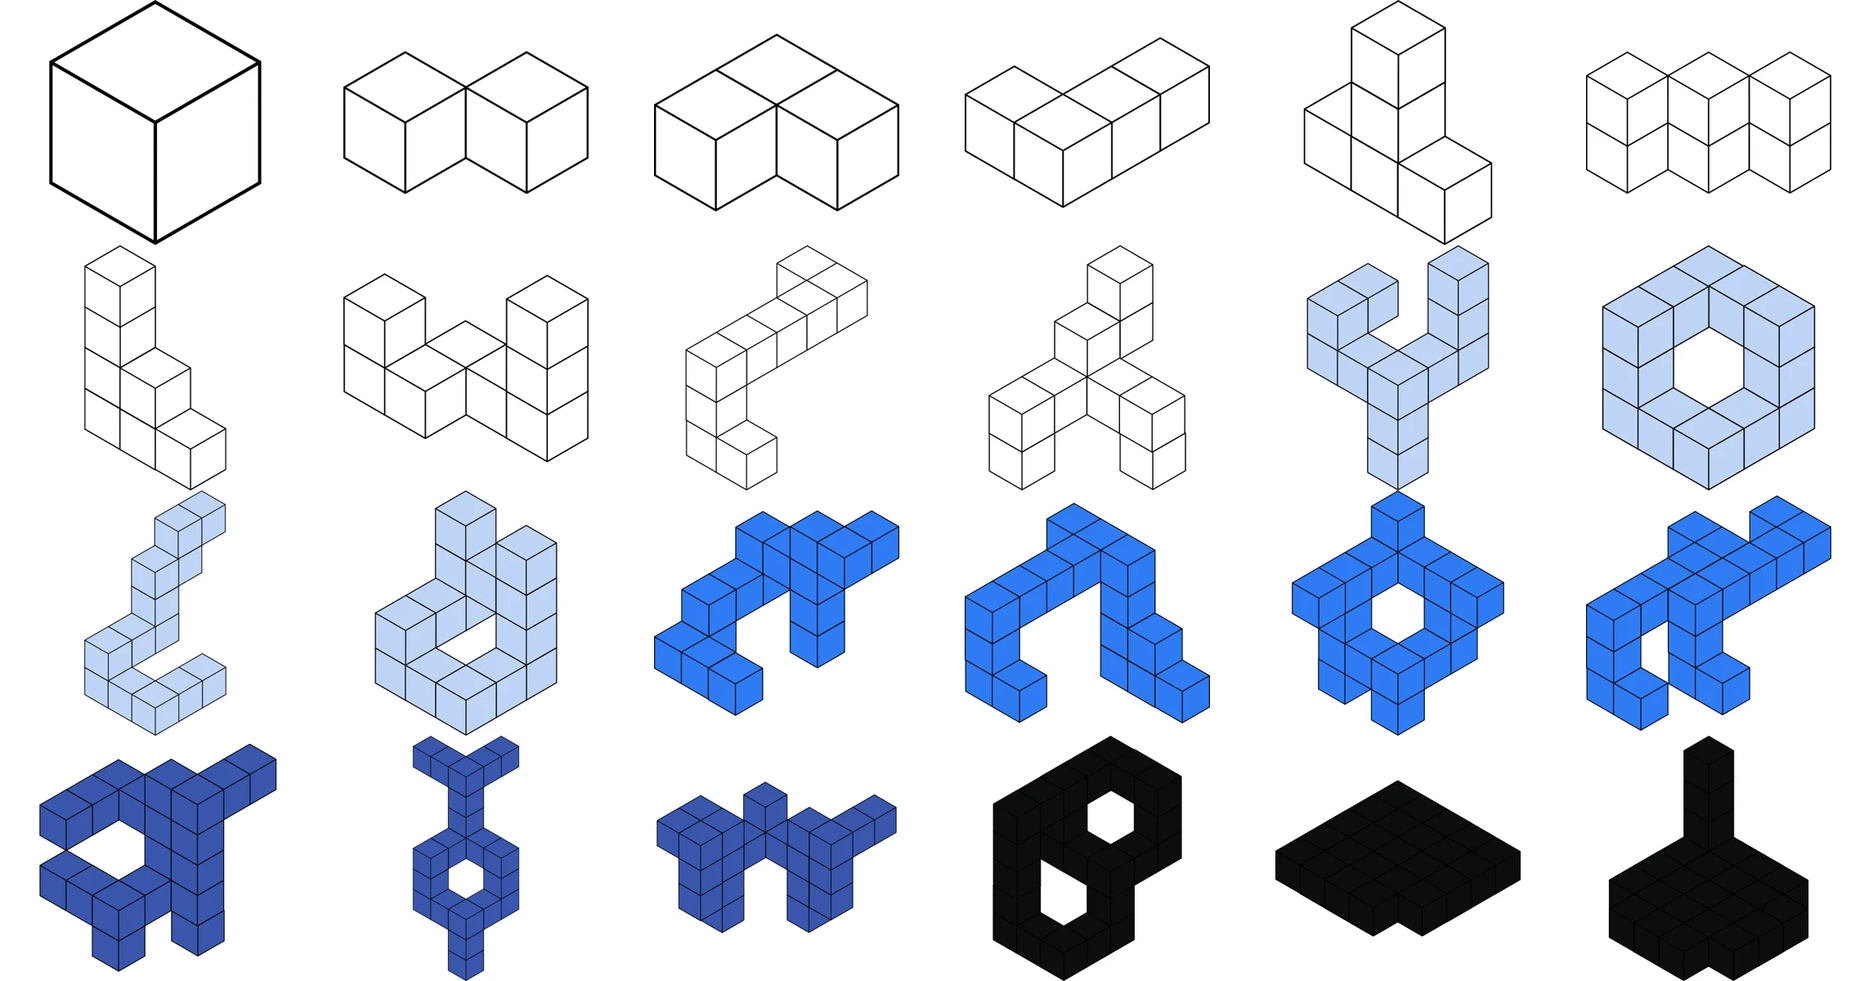
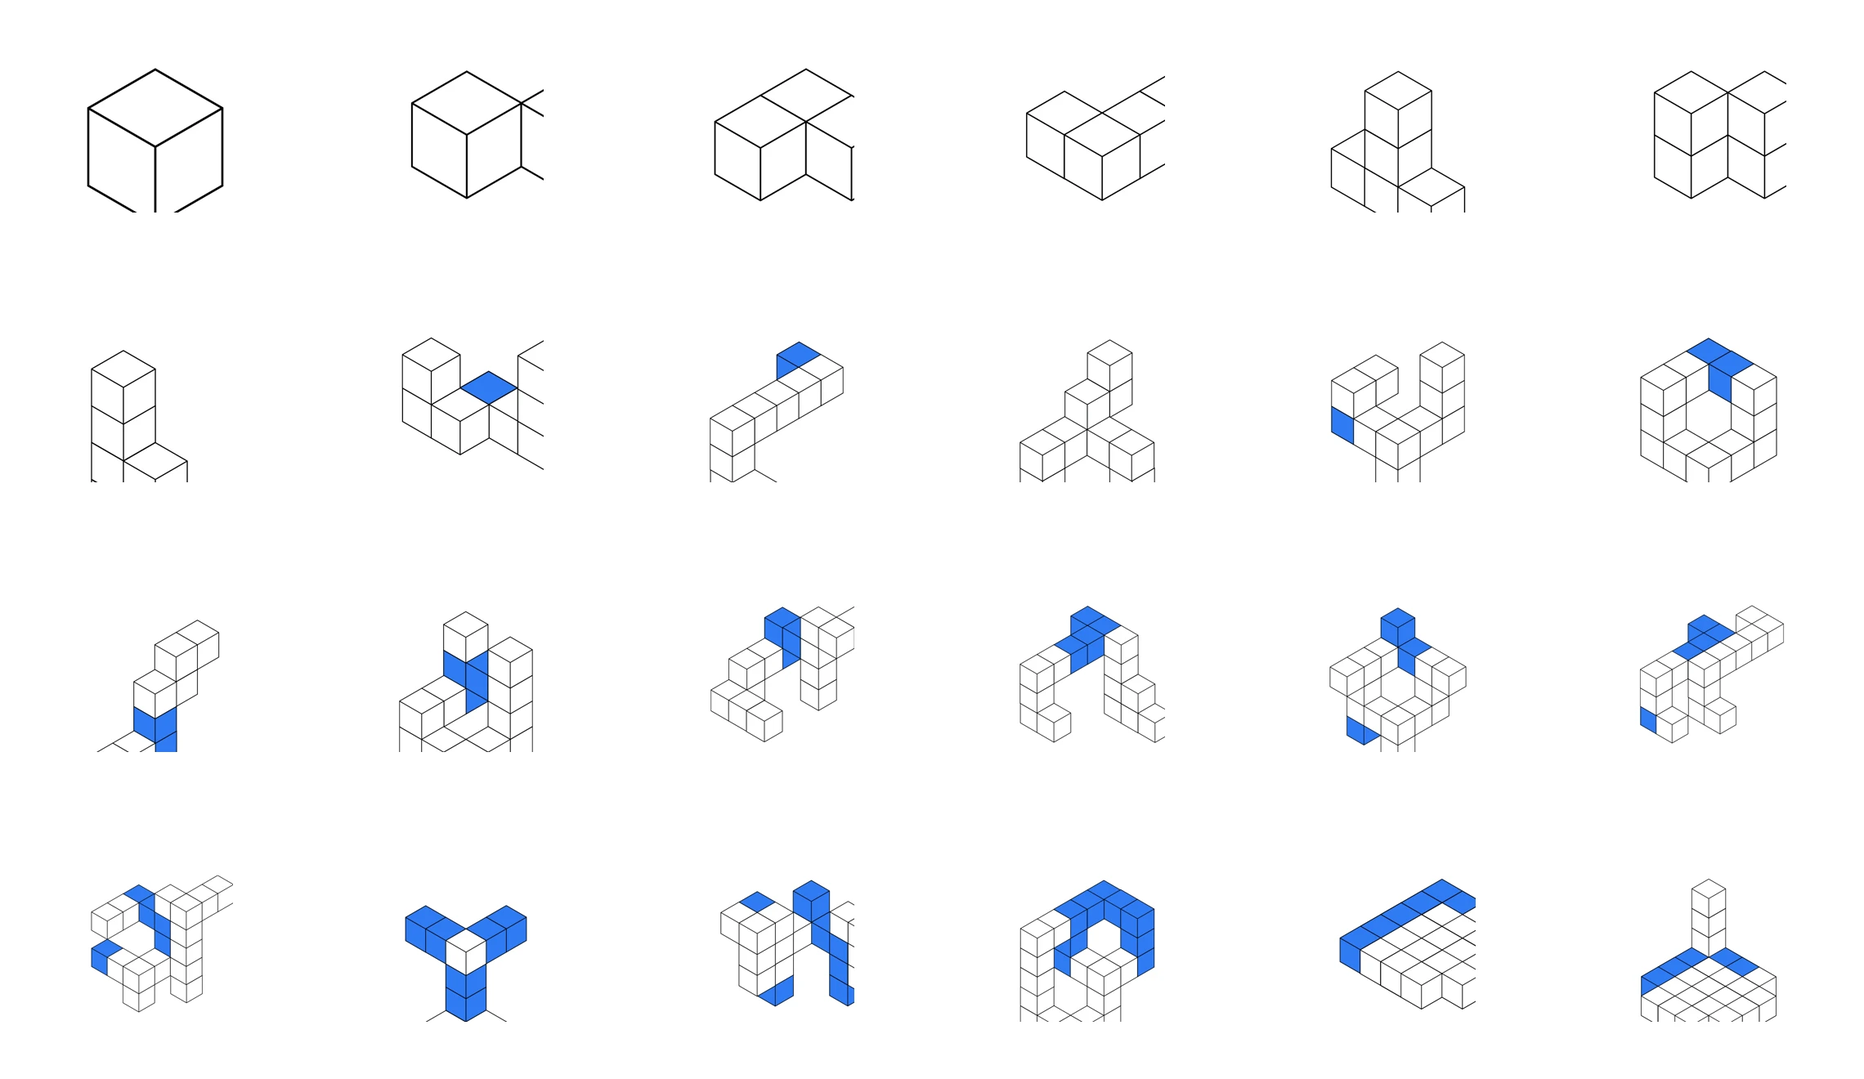
Kaizen: lighter block mosaic, longer navy-to-black fade, tighter alignment
Mosaic rebuilt with smaller blocks in larger cells, half-weight grey strokes
in place of black, and 6% padding inside the viewBox so nothing clips at the
render bounds. Individual cubes fill blue rather than whole structures.

The lockup's navy-to-black fade was being cropped mid-navy by the opaque media
below it, so the seam it was meant to dissolve came back as a hard line. The
gradient is now sized to the padding run that precedes the media, lengthened,
and walked along a smoothstep curve so it eases out of the navy and into the
black with no corner at either end.

Also: the even-spread strip moves up under the five doughnut screens and is
held in from both sides, where full-bleed had been cutting the outer two
phones off at the frame; the Quasimoda specimen moves onto the site's own left
rail so it starts under the wordmark and nav rather than 200px left of them;
Slot 05 and the design-system sheet are removed.

Claude-Session: https://claude.ai/code/session_0194FyaePx1fREVkPJYGQDdS

diff --git a/work/feed-redesign/index.html b/work/feed-redesign/index.html
@@ -797,29 +797,52 @@ html.t2-scrolled .t2-nav-links a { color: #FFFFFF; }
 .kz-lockup--dark {
   margin-top: 0;
   margin-bottom: -1px;
-  padding-top: clamp(70px, 11vh, 170px);
-  background: linear-gradient(#080F1F 0%, #0A0F18 46%, #0B0D0F 100%);
+  /* The fade has to finish exactly where the opaque media begins, or the media
+     crops it mid-navy and the seam it was meant to dissolve comes back as a
+     hard line. Sizing the gradient to the padding run ties the two together. */
+  --kz-fade: clamp(190px, 28vh, 380px);
+  padding-top: var(--kz-fade);
+  background-color: #0B0D0F;
+  /* A straight two-stop ramp still read as a line: the colour arrives at black
+     and then stops dead, and the kink at that point is what the eye picks up.
+     These stops walk a smoothstep curve instead, so the fade eases out of the
+     navy and eases into the black with no corner at either end. */
+  background-image: linear-gradient(
+    #080F1F 0%,
+    #080F1E 12.5%,
+    #090F1D 25%,
+    #090E1A 37.5%,
+    #0A0E17 50%,
+    #0A0E14 62.5%,
+    #0A0D12 75%,
+    #0B0D10 87.5%,
+    #0B0D0F 100%);
+  background-size: 100% var(--kz-fade);
+  background-repeat: no-repeat;
 }
 .kz-lockup--dark .t2-media { background: #0B0D0F; }
-.kz-lockup--light, .kz-lockup--light .t2-media { background: #FFFFFF; }
 /* The construction sits after the specimen and the light lockup, on white, at
    the width the sheets run at. */
 .kz-build, .kz-build .t2-media { background: #FFFFFF; }
 .kz-build .t2-media { width: min(86%, 1120px); margin-inline: auto; }
-.kz-build { padding-block: clamp(26px, 4vh, 60px); }
+/* Follows the specimen's black directly now that the light lockup is gone, so
+   it opens with a decent run of white before the doughnuts start. */
+.kz-build { padding-block: clamp(72px, 11vh, 168px) clamp(40px, 6vh, 96px); margin-top: 0; }
 /* Train like — the block concept. Each SVG's faces were hard-coded white, so
    they now take currentColor and the colour is set per block from Kaizen's own
    range: white, the product blue, near-black. The black edges are left alone,
    which is what keeps them reading as drawn objects rather than flat shapes. */
-.kz-train { display: flex; flex-direction: column; gap: 16px; padding-inline: clamp(16px, 6%, 96px); margin-block: clamp(32px, 5vh, 72px); }
+/* Wider than the rest of the run — the mosaic wants the room. */
+.kz-train { display: flex; flex-direction: column; gap: 16px; padding-inline: clamp(12px, 2.4%, 44px); margin-block: clamp(40px, 6vh, 92px); }
 .kz-train-note {
   max-width: 66ch; margin: 0 0 clamp(14px, 2vh, 26px);
   font-family: var(--body); font-weight: 300; font-size: 16px; line-height: 26px; color: var(--ink-700);
 }
-.kz-train-row { display: flex; gap: clamp(24px, 4vw, 72px); align-items: center; }
+/* The screen sits top left, the mosaic runs beside it. */
+.kz-train-row { display: flex; gap: clamp(20px, 3.2vw, 56px); align-items: flex-start; }
 .kz-train-blocks { flex: 1 1 auto; min-width: 0; }
 .kz-train-blocks img { width: 100%; height: auto; display: block; }
-.kz-train-screen { flex: 0 0 auto; width: clamp(150px, 20vw, 260px); }
+.kz-train-screen { flex: 0 0 auto; width: clamp(132px, 15vw, 218px); }
 .kz-train-screen img { width: 100%; height: auto; display: block; }
 @media (max-width: 719px) {
   .kz-train-row { flex-direction: column; align-items: flex-start; }
@@ -827,7 +850,13 @@ html.t2-scrolled .t2-nav-links a { color: #FFFFFF; }
 }
 .kz-spec { background: #0B0D0F; margin-top: 0; margin-bottom: -1px; }
 .kz-spec-inner {
-  padding: clamp(48px, 8vh, 128px) clamp(24px, 7%, 116px);
+  /* The specimen is live type, not a full-bleed image, so it reads as page
+     copy and has to sit on the page's own left rail. That rail is the nav's:
+     a 1136px centred box with 96px of padding inside it. Same box here, so
+     Quasimoda starts exactly under Studio Vincent and the nav above it. */
+  max-width: 1136px;
+  margin-inline: auto;
+  padding: clamp(48px, 8vh, 128px) clamp(24px, 8.5%, 96px);
   color: #F4F3EF;
   font-family: "Quasimoda", "Test Söhne", "Inter", system-ui, sans-serif;
 }
@@ -878,7 +907,11 @@ html.t2-scrolled .t2-nav-links a { color: #FFFFFF; }
    directly above the black outro. Its background is keyed out, and the figure
    takes the outro's colour so the two read as one dark close to the page. */
 .kz-onblack, .kz-onblack .t2-media { background: #1a1a1a; }
+/* Run full-bleed, the outer two phones sat hard against the frame and read as
+   cut off. The strip is held in from both sides so the row is complete, with
+   the black carrying on past it to the edges. */
 .kz-onblack { padding: clamp(28px, 4vh, 64px) 0 clamp(36px, 5vh, 80px); margin-bottom: -1px; }
+.kz-onblack .t2-media { width: min(92%, 1560px); margin-inline: auto; }
 .kz-pair { display: flex; flex-direction: column; gap: 20px; padding-inline: clamp(16px, 6%, 96px);
   margin-block: clamp(28px, 4vh, 60px); }
 .kz-pair-title {
@@ -940,6 +973,21 @@ html.t2-scrolled .t2-nav-links a { color: #FFFFFF; }
    through as a hairline. Overlapping by a pixel removes the possibility
    rather than relying on the rounding to agree. */
 .t2-item--pano, .t2-item--film { margin-bottom: -1px; }
+/* The landscape ended on its own navy and the panel below started on the same
+   colour, but the join was still a straight horizontal edge across the frame.
+   A gradient over the foot of the scene sinks it into what follows instead of
+   stopping at it. It sits above the layers, so it holds still while they move
+   underneath — which is what makes the bottom read as depth rather than as a
+   cut. */
+.t2-item--pano .t2-media { position: relative; }
+.t2-item--pano .t2-media::after {
+  content: "";
+  position: absolute;
+  inset: auto 0 0 0;
+  height: 38%;
+  background: linear-gradient(rgba(8, 15, 31, 0) 0%, rgba(8, 15, 31, 0.5) 52%, rgba(9, 13, 22, 0.88) 82%, #080F1F 100%);
+  pointer-events: none;
+}
 .t2-item--pano + .t2-item--film,
 .t2-item--film + .t2-item--film { padding-top: 1px; }
 /* The ground behind the SVG has to cover BOTH edges: sky at the top, where a
@@ -2328,9 +2376,9 @@ html.t2-scrolled .t2-nav-links a { color: #FFFFFF; }
 <path d="M245.352 302.091C421.738 328.852 518.737 301.338 737.041 296.95C955.345 292.563 995.654 295.048 1025.71 296.954C1055.78 298.861 1085.06 298.531 1102.62 303.135C1120.19 307.74 1142.06 301.689 1158.51 302.104C1174.96 302.52 1208.23 307.213 1233.88 313.428C1259.52 319.643 1288.6 310.89 1316.43 313.429C1344.26 315.968 1367.51 322.387 1400.51 324.739C1433.52 327.091 1466.35 324.74 1496.39 324.74C1526.42 324.741 1543.25 324.222 1573.29 324.741C1603.33 325.261 1698.58 332.558 1752.23 335.035C1805.88 337.512 1836.05 342.029 1889.64 340.182C1943.23 338.335 1980.7 327.329 2030.64 324.748C2080.58 322.167 2108.76 322.581 2158.81 324.75C2208.87 326.918 2237.81 333.065 2288.55 336.081C2339.29 339.096 2377.49 342.481 2432.11 340.199C2486.73 337.917 2516.51 328.038 2571.06 324.756C2625.6 321.473 2636.43 332.901 2677.7 332.487C2718.97 332.072 2742.4 322.721 2782.77 322.806C2823.13 322.89 2884.84 317.042 2912.53 320.656C2940.21 324.269 2964.07 328.976 3008.41 328.375C3052.74 327.774 3054.94 320.972 3084.29 320.658C3113.63 320.345 3137.4 324.31 3171.45 324.764C3205.5 325.219 3226.32 318.356 3261.62 315.511C3296.91 312.665 3329.85 309.624 3362.11 309.852C3394.37 310.08 3420.31 317.474 3457.55 322.815C3494.79 328.157 3540.4 339.329 3587.19 342.758C3633.99 346.187 3676.7 345.438 3707.17 342.759C3737.64 340.081 3748.91 329.323 3775.88 327.84C3802.84 326.356 3835.86 320.669 3867.14 327.841C3898.42 335.013 3902.22 322.973 3927.13 324.24C3952.04 325.507 3959.94 311.892 4010.7 327.843C4061.46 343.794 4057.02 344.604 4109.66 344.824C4162.29 345.044 4183.49 324.244 4219.38 327.846C4255.27 331.448 4255.27 329.905 4311.16 337.109C4367.04 344.313 4383.61 370.479 4413.7 367.981C4443.79 365.484 4465.81 366.132 4495.74 362.323C4525.66 358.514 4565.98 393.71 4610.07 388.565C4654.17 383.421 4673.88 360.608 4697.75 362.326C4721.62 364.044 4762.99 355.289 4789.01 356.667C4815.03 358.045 4855.67 356.668 4855.67 356.668L4961.29 344.836L5075.62 344.838L5262.84 334.078C5262.84 334.078 5338.26 325.159 5386.92 324.057C5435.57 322.955 5519.71 324.059 5519.71 324.059L5734.03 334.085L6214.12 326.165C6278.82 325.098 6328.67 384.847 6315.76 447.992L6292.78 560.379C6291.06 568.828 6290.44 577.488 6290.95 586.14L6305.51 833.838C6308.85 890.731 6264.59 937.996 6207.64 937.751C5950.45 936.644 5271.52 934.091 4802.2 935.683C4212.78 937.682 3666.44 948.575 3186.02 949.949C2705.6 951.322 2392.04 948.613 1955.71 947.879C1519.38 947.145 1144.7 946.214 838.413 945.999C532.125 945.784 211.878 1136.71 54.1246 945.988C-103.629 755.266 -41.1217 349.18 34.624 317.524C110.37 285.869 68.9651 275.331 245.352 302.091Z" fill="url(#paint4_linear_111_62430)" fill-opacity="0.56"/>
 </g></g><g class="lz-l" style="--d:0.56"><g filter="url(#filter6_n_111_62430)">
 <path d="M471.457 338.109C562.208 318.559 618.438 319.465 669.88 318.561C721.322 317.657 762.197 322.452 813.442 318.563C864.686 314.674 906.758 318.564 906.758 318.564L985.204 315.994L1055.45 305.705L1123.64 300.046C1123.64 300.046 1221.78 296.544 1280.02 300.049C1338.26 303.553 1442.55 316.001 1442.55 316.001L1546.63 316.002L1638.92 324.75C1638.92 324.75 1876.31 363.888 1967.06 344.299C2057.81 324.71 2234.19 352.027 2234.19 352.027C2234.19 352.027 2269.57 360.26 2304.95 360.261C2340.33 360.261 2505.13 344.55 2522.34 344.307C2532.34 344.166 2550.45 341.934 2563.87 340.088C2575.09 338.545 2586.52 338.695 2597.72 340.788L2663.27 353.032C2663.27 353.032 2694.06 360.166 2714.03 360.236C2733.99 360.307 2765.81 353.034 2765.81 353.034L2831.39 336.918C2837.9 335.318 2844.55 334.38 2851.28 334.175C2870.43 333.59 2911.4 332.623 2925.78 334.514C2944.8 337.015 2971.93 337.601 2971.93 337.601L3032.94 344.314C3032.94 344.314 3073.96 353.038 3115.49 353.039C3157.02 353.04 3223.67 337.605 3223.67 337.605C3223.67 337.605 3298.53 329.888 3341.6 329.889C3384.67 329.889 3400.67 333.781 3425.68 338.123C3450.69 342.464 3470.8 352.561 3470.8 352.561C3470.8 352.561 3502.64 368.234 3529.77 369.509C3556.9 370.785 3567.59 363.565 3601.03 364.392C3634.48 365.218 3677.43 377.229 3718.96 369.512C3760.49 361.795 3779.97 338.382 3828.17 338.128C3876.37 337.874 3898.82 361.024 3923.54 361.283C3948.25 361.541 3972.69 356.042 3993.27 354.593C4013.84 353.144 4052.74 358.197 4052.74 358.197C4052.74 358.197 4090.04 371.176 4114.78 375.177C4139.53 379.178 4240.42 354.955 4270.65 354.597C4300.88 354.239 4321.9 351.774 4340.89 358.201C4359.88 364.628 4364.63 369.939 4383.96 375.181C4403.29 380.423 4410.34 379.004 4437.28 383.928C4464.23 388.852 4488.23 400.508 4511.12 402.966C4534.01 405.425 4572.39 404.326 4595.2 407.084C4618.02 409.842 4657.24 382.885 4704.41 383.932C4751.58 384.979 4824.9 375.187 4824.9 375.187L5015.12 354.608L5223.36 335.621L5388.46 327.392L5639.18 340.772C5639.18 340.772 5712.38 335.608 5758.64 335.629C5804.9 335.65 5877.08 340.776 5877.08 340.776L6029.36 335.633C6029.36 335.633 6119.37 319.759 6169.84 318.658C6220.31 317.557 6303.15 318.66 6303.15 318.66L6439.02 327.407C6439.02 327.407 6499.39 328.828 6537.98 327.408C6576.57 325.988 6649.24 318.665 6649.24 318.665L6649.24 340.787L6659 958.719L3227.13 895.884L-19.7144 929.275L-25.8836 331.412C-25.8836 331.412 84.3985 323.442 236.628 331.415C388.856 339.389 380.706 357.66 471.457 338.109Z" fill="url(#paint5_linear_111_62430)"/>
-</g></g><g class="lz-l" style="--d:0.63"><g filter="url(#filter7_n_111_62430)">
+</g></g><g class="lz-l" style="--d:0.54"><g filter="url(#filter7_n_111_62430)">
 <path d="M836.628 338.528C759.73 352.912 694.1 330.448 644.879 331.32C595.658 332.192 582.573 338.921 563.869 342.126C545.165 345.332 544.898 347.097 516.186 351.387C487.474 355.677 448.507 351.386 359.294 359.103C270.081 366.819 229.577 348.8 196.761 339.546C163.945 330.291 107.002 330.584 53.2013 345.715C-0.599828 360.845 -29.7529 723.048 40.398 949.763C110.549 1176.48 1314.61 949.105 1858.43 949.789C2402.24 950.473 2707.16 952.242 3250.97 952.868C3794.79 953.493 4160.32 952.881 4742.99 952.889C5325.66 952.897 6505.04 952.914 6505.04 952.914L6655.89 963.878L6655.87 483.318L6655.87 334.101L6549.74 341.561L6443.61 349.02L6340.55 334.098L6229.28 334.097L6098.02 349.015L5966.25 344.382C5966.25 344.382 5833.51 339.488 5791.41 339.235C5749.31 338.981 5684.25 349.009 5684.25 349.009L5392 339.229L5310.48 339.228L5229.47 353.633L5142.31 359.806L5067.07 384.411L4867.55 408.601C4867.55 408.601 4793.21 405.711 4765.52 408.599C4737.83 411.488 4722.15 440.325 4700.4 436.898C4678.66 433.472 4649.13 417.346 4613.75 417.345C4578.38 417.345 4556.84 443.685 4539.41 441.012C4521.98 438.34 4502.55 419.403 4482.5 411.168C4462.44 402.934 4407.13 397.276 4407.13 397.276C4407.13 397.276 4340.83 375.16 4295.87 384.4C4250.91 393.639 4230.93 370.447 4185.12 374.621C4139.32 378.796 4102.41 396.448 4053.35 393.143C4004.29 389.839 3950.74 382.969 3922.1 384.395C3893.47 385.82 3877.95 391.8 3849.3 393.14C3820.66 394.481 3768.9 382.085 3728.8 384.392C3688.71 386.698 3657.71 401.369 3627.64 401.63C3597.56 401.891 3578.75 396.393 3550.9 393.136C3523.05 389.88 3496.57 387.556 3479.63 384.388C3462.69 381.221 3461.17 375.458 3436.56 374.611C3411.95 373.763 3405.28 367.917 3381.18 364.832C3357.08 361.746 3353.9 361.454 3326.83 360.203C3299.76 358.951 3269.87 358.312 3233.52 360.201C3197.16 362.09 3140.88 376.61 3113.54 374.606C3086.2 372.602 3053.6 365.332 3015.1 360.198C2976.6 355.065 2903.82 345.611 2854.62 342.186C2805.42 338.761 2743.35 360.101 2670.55 365.851C2597.76 371.602 2336.34 361.645 2268.66 370.461C2200.99 379.278 2139.88 390.547 2046.56 390.545C1953.25 390.544 1854.38 350.392 1652.88 350.389C1451.39 350.386 1408.62 341.02 1373.96 338.535C1339.31 336.051 1301.88 332.873 1285.26 331.35C1268.63 329.827 1258.07 326.203 1242.7 327.235C1227.34 328.267 1212.68 331.174 1194 331.349C1175.31 331.524 1151.32 324.079 1123.75 322.087C1096.19 320.096 1057.06 319.794 1037.62 322.086C1018.17 324.379 999.964 330.548 988.394 331.346C976.824 332.145 970.266 331.213 958.656 331.346C947.046 331.479 913.527 324.144 836.628 338.528Z" fill="#03201B"/>
-</g></g><g class="lz-l" style="--d:0.72"><g filter="url(#filter8_n_111_62430)">
+</g></g><g class="lz-l" style="--d:0.58"><g filter="url(#filter8_n_111_62430)">
 <path d="M529.728 678.116C523.455 678.116 517.286 677.537 511.063 676.618C474.595 671.23 334.272 655.356 164.501 698.604C105.862 713.541 59.0137 722.66 22.1169 728.096C-39.4372 737.164 -99.6529 790.453 -102.521 852.699L-106.692 943.208L-99.4995 1133.54L1891.91 1133.57L3278.82 1147.49L4782.63 1147.51L6274.94 980.347L6660.51 980.355L6660.49 414.379L6482.58 432.796L6286.76 432.793L5997.55 442.667L5489.55 469.845L5199.87 432.778C5199.87 432.778 5087.42 396.524 5011.18 401.398C4934.95 406.272 4860.73 419.019 4817.38 426.094C4774.02 433.168 4772.6 419.444 4733.8 429.745C4695 440.045 4674.6 464.384 4634.34 469.833C4594.07 475.283 4515.31 469.831 4515.31 469.831C4515.31 469.831 4458.93 437.274 4419.43 426.088C4379.94 414.902 4339.52 427.114 4294.4 414.251C4249.28 401.387 4213.39 389.088 4150.33 397.319C4087.26 405.551 4046.76 414.861 4006.76 408.122C3966.77 401.383 3921.07 401.382 3921.07 401.382L3853.97 408.12L3735.98 401.38C3735.98 401.38 3690.36 398.855 3657.6 396.233C3624.84 393.612 3609.92 387.021 3564.8 387.02C3519.68 387.02 3443.21 396.23 3443.21 396.23C3443.21 396.23 3316.57 377.451 3255.05 379.763C3193.52 382.074 3159.17 389.537 3159.17 389.537L3100.72 389.537C3100.72 389.537 3037.66 384.386 2993.57 384.385C2949.47 384.385 2903.32 362.921 2846.93 360.715C2790.54 358.509 2733.62 374.091 2694.65 380.264C2655.69 386.438 2609.03 389.013 2609.03 389.013C2609.03 389.013 2497.24 389.009 2438.28 380.261C2379.33 371.513 2318.57 370.721 2266.01 383.345C2213.45 395.968 2136.04 493.438 2052.78 496.086C1969.52 498.735 1820.01 575.828 1719.01 575.826C1618 575.825 1536.52 555.549 1478.03 557.3C1426.96 558.829 1211.79 626.662 1158.03 643.845C1149.89 646.445 1141.48 648.004 1132.91 648.47L981.249 656.725L845.363 667.83L640.274 678.117L529.728 678.116Z" fill="#011511"/>
 </g></g><g class="lz-l" style="--d:1.0"><g filter="url(#filter9_n_111_62430)">
 <path d="M749.835 723.572C678.915 732.789 526.455 718.633 454.752 718.337C432.211 718.244 406.181 718.668 376.125 719.765C225.976 725.245 146.793 758.114 109.559 780.684C89.8138 792.654 81.3656 815.051 81.3663 838.335L81.3672 868.021L81.372 1018.25L2006.14 1062.63L3393.05 1076.54L4896.86 1076.57L6664.22 1121.35L6664.2 643.886L6546.16 643.885L6427.21 673.722L6310.31 653.73L6177 663.576L5949.33 647.991L5715.01 663.57L5384.31 700.462L5165.89 653.713L4927.99 643.861C4927.99 643.861 4691.71 663.263 4622.08 655.69C4552.46 648.117 4443.14 647.97 4443.14 647.97L3980.6 632.993C3980.6 632.993 3903.11 630.33 3761.67 611.378C3620.22 592.426 3524.8 641.219 3364.32 632.984C3203.83 624.75 3072.58 621.147 2926.45 632.978C2780.33 644.81 2701.37 660.243 2701.37 660.243L2511.51 674.134C2501.76 674.848 2491.95 674.11 2482.3 672.205C2460.18 667.834 2417.39 660.239 2387.08 660.238C2344.52 660.238 2286.59 660.237 2286.59 660.237L2132.69 629.029C2132.69 629.029 2038.99 620.129 1996.31 620.795C1953.63 621.461 1865.57 645.489 1865.57 645.489L1663.36 710.26C1651.97 713.911 1640.15 715.469 1628.11 714.882C1557.38 711.431 1299.04 699.587 1228.26 707.029C1145.99 715.679 1024.2 729.663 1024.2 729.663L819.589 716.399C813.13 715.98 806.658 716.187 800.264 717.018L749.835 723.572Z" fill="#0A0E22" fill-opacity="0.8"/>
@@ -2421,13 +2469,6 @@ html.t2-scrolled .t2-nav-links a { color: #FFFFFF; }
         </div>
       </figure>
 
-      <figure class="t2-item t2-reveal kz-lockup kz-lockup--light">
-        <div class="t2-media" style="aspect-ratio: 2181 / 1010;">
-          <img src="kaizen-lockup-light.webp" alt="The Kaizen lockup: mark and wordmark in black on white."
-               width="2181" height="1010" loading="lazy" decoding="async">
-        </div>
-      </figure>
-
       <figure class="t2-item t2-reveal kz-build">
         <div class="t2-media" style="aspect-ratio: 1010 / 196;">
           <img src="kaizen-doughnut-construction.webp" alt="How the doughnut is built: the filling ring, the concentric construction, and the finished mark."
@@ -2446,16 +2487,16 @@ html.t2-scrolled .t2-nav-links a { color: #FFFFFF; }
         </div>
       </figure>
 
+      <figure class="t2-item t2-reveal kz-onblack">
+        <div class="t2-media" style="aspect-ratio: 2800 / 774;">
+          <img src="kaizen-even-spread.webp" alt="Eight screens of the Even spread onboarding flow: choosing a training system, keeping existing plans, selecting rest days, and the plan generating." width="2800" height="774" loading="lazy" decoding="async">
+        </div>
+      </figure>
+
       <div class="t2-note">
         <span class="t2-note-label">The feed</span>
         <p>What people were really after was clear orientation &ndash; signal in the noise that they could trust across time.</p>
       </div>
-
-      <figure class="t2-item t2-reveal">
-        <div class="t2-slot" style="aspect-ratio: 16 / 10;">
-          <span><b>Slot 05</b>The static dashboard, and the navigable timeline it became.</span>
-        </div>
-      </figure>
 
       <div class="t2-note">
         <span class="t2-note-label">How it was built</span>
@@ -2466,28 +2507,14 @@ html.t2-scrolled .t2-nav-links a { color: #FFFFFF; }
         <figcaption class="kz-pair-title">Train like&hellip;</figcaption>
         <p class="kz-train-note">A week of training is a block. It fills as the runner does the work, and the blocks stack into a structure they have built themselves &mdash; lots of blocks, lots of patterns, a shape that is theirs by the end of a training cycle.</p>
         <div class="kz-train-row">
-          <div class="kz-train-blocks">
-            <img src="kaizen-blocks-mosaic.webp" alt="Twenty-four block structures, from a single cube to twenty-five, filling from white through to solid as they grow."
-                 width="2280" height="1200" loading="lazy" decoding="async">
-          </div>
           <div class="kz-train-screen">
             <img src="kaizen-train-like.webp" alt="The training-system chooser: an established system, a pro, a creator, a friend, or a coach."
                  width="450" height="920" loading="lazy" decoding="async">
           </div>
-        </div>
-      </figure>
-
-      <figure class="t2-item t2-reveal kz-type">
-        <figcaption class="kz-pair-title">The design system</figcaption>
-        <div class="kz-type-sheet">
-          <img src="kaizen-design-system.webp" alt="Six families from the Kaizen design system: the doughnut, cards, trays, inputs, actions and race durations."
-               width="2200" height="1100" loading="lazy" decoding="async">
-        </div>
-      </figure>
-
-      <figure class="t2-item t2-reveal kz-onblack">
-        <div class="t2-media" style="aspect-ratio: 2800 / 774;">
-          <img src="kaizen-even-spread.webp" alt="Eight screens of the Even spread onboarding flow: choosing a training system, keeping existing plans, selecting rest days, and the plan generating." width="2800" height="774" loading="lazy" decoding="async">
+          <div class="kz-train-blocks">
+            <img src="kaizen-blocks-mosaic.webp" alt="Twenty-four block structures, from a single cube to twenty-five, individual cubes filling blue as the work is done."
+                 width="2280" height="1320" loading="lazy" decoding="async">
+          </div>
         </div>
       </figure>
 
